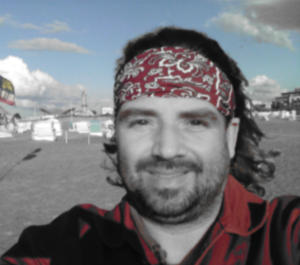
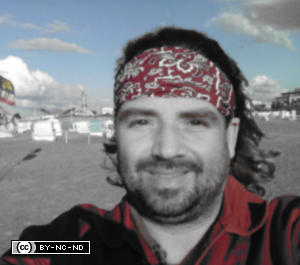
Update date information and refine license information.

Changed region(s): [[0.03, 0.9057, 0.3, 0.966]]

diff --git a/html5/src/index.html b/html5/src/index.html
@@ -171,22 +171,24 @@
       <figcaption style='font-size: 80%; width: 100%;
         border: 1px solid #aaa; padding: 2px;
         border-radius: 0 0 6px 6px; background: #eee;'
-        <p>Oliver Merkel, own work, Copyright (c) 2013<br />
+        <p>Oliver Merkel, own work, Copyright (c) 2014<br />
         <a rel="license" target="_blank"
-        href="http://creativecommons.org/licenses/by-nc-nd/3.0/deed.en_US">
-        <img alt="Creative Commons License" src="img/icons/cc-by-nc-nd.png" style="max-width:100%;">
+        href="http://creativecommons.org/licenses/by-nc-nd/4.0/">
+        <img alt="Creative Commons License" src="img/icons/cc-by-nc-nd.png"
+          style="max-width:100%;">
         </a><br />This image is licensed under a <a rel="license" target="_blank"
-        href="http://creativecommons.org/licenses/by-nc-nd/3.0/deed.en_US">
-        Creative Commons Attribution-NonCommercial-NoDerivs 3.0 Unported License</a>.</p>
+        href="http://creativecommons.org/licenses/by-nc-nd/4.0/">
+        Creative Commons Attribution-NonCommercial-NoDerivatives 4.0
+        International License</a>.</p>
       </figcaption>
     </figure>
     <h3>Copyright Notice</h3>
-    <p>Copyright 2014, Oliver Merkel, Merkel(dot)Oliver(at) web(dot)de</p>
+    <p>Copyright 2014, Oliver Merkel, Merkel(dot) Oliver(at) web(dot)de</p>
     <p>Code Breaker 4.6</p>
 
     <p>Contributors:</p>
     <ul>
-      <li>Oliver Merkel, Merkel(dot)Oliver (at) web(dot)de</li>
+      <li>Oliver Merkel, Merkel(dot) Oliver(at) web(dot)de</li>
     </ul>
     <p>Logos and trademarks belong to their respective owners.</p>
     <br clear='all' />
